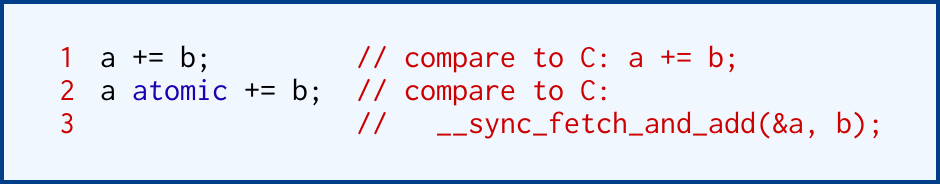
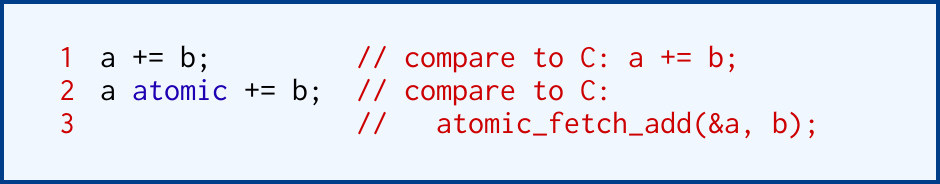
Revise related work section to fit structurally with the narrative from the intro.

Changed region(s): [[0.7096, 0.5978, 0.9564, 0.7609], [0.4628, 0.625, 0.5553, 0.7609], [0.6787, 0.6522, 0.7096, 0.7065]]

diff --git a/implementation.tex b/implementation.tex
@@ -1,10 +1,10 @@
-For a thorough examination of the language, DEF has a language wiki,\cite{DEFWiki} however, a brief look is given below.  The DEF compiler is based on the Tapir branch of LLVM, that provides fork-join parallelism primitives.\cite{TAPIR,LLVM}  The front-end is principly written in OCaml, but includes some C++.
+For a thorough examination of the language, DEF has a language wiki,\cite{DEFWiki} however, a brief comparison with C is provided to show that it is, in fact, close to the machine in the same way that C is, albeit with a different syntax.  The DEF compiler is based on the Tapir branch of LLVM, that adds fork-join parallelism primitives.\cite{TAPIR,LLVM}  The front-end is principly written in OCaml, but includes some C++.
 
-Likewise, the \texttt{defghi} utility is written in OCaml,\cite{DEF} and is described in the C Interface section.
+Likewise, the \texttt{defghi} utility is written in OCaml,\cite{DEF} and is described in the Compatibility section.
 
-Finally, the suite of microbenchmarks was developed in DEF and C with the driver in DEF.  The concurrent data structures selected for the suite were chosen for high performance and variety.
+Finally, the suite of microbenchmarks was developed in DEF and C with the driver in DEF.  The concurrent set data structures selected for the suite were chosen for high performance and variety.
 
-\subsection{Basic Syntax}
+\subsection{Close to the Machine}
 
 \begin{figure}[htbp!]
         \centering
@@ -13,7 +13,9 @@ Finally, the suite of microbenchmarks was developed in DEF and C with the driver
         \label{fig:types}
 \end{figure}
 
-Syntactically, DEF looks similar to C with the most apparent difference being that scopes are denoted by keywords instead of curly braces (e.g., \texttt{if} and \texttt{fi}, \texttt{do} and \texttt{od}, etc.) allowing curly braces to be repurposed for tuples.  Native types specify a bit width, so C's \texttt{int} on most systems corresponds to DEF's \texttt{i32}.  Types are also designed to read left-to-right, so the return type in a function declaration has been moved to the right using an arrow notation similar to ML-like languages or Go.  For more complicated types, fig.~\ref{fig:types} gives an example of left-to-rightness where no parentheses are needed to distinguish an array of pointers to integers (line 1) from a pointer to an array of 32-bit integers (line 2).
+Syntactically, DEF has some similarity to C with the most apparent difference being that scopes are denoted by keywords instead of curly braces (e.g., \texttt{if}/\texttt{then} and \texttt{fi}, \texttt{do} and \texttt{od}, etc.) allowing curly braces to be repurposed for tuples.  Native types specify a bit width, so C's \texttt{int} on most systems corresponds to DEF's \texttt{i32}.  Types are also designed to read left-to-right, so the return type in a function declaration has been moved to the right using an arrow notation similar to ML-like languages or Go.  For more complicated types, fig.~\ref{fig:types} gives an example of left-to-rightness where no parentheses are needed to distinguish an array of pointers to integers (line 1) from a pointer to an array of integers (line 2).
+
+The expressibility is equivalent to C.  Arrays, for example, contain no metadata and can appear on the stack or on the heap.  DEF is able to commit to native integers and floating point variables of specific width, however, because architectures have largely settled on them.  C acknowledges this as of the C99 standard with types like \texttt{int32\_t} defined in the \texttt{stdint.h} header file.(cite C99)
 
 \begin{figure}[htbp!]
         \centering
@@ -22,7 +24,7 @@ Syntactically, DEF looks similar to C with the most apparent difference being th
         \label{fig:typedef}
 \end{figure}
 
-Types are defined with the \texttt{typedef} keyword.  Figure \ref{fig:typedef} shows two examples: a C-style \texttt{string} type is defined on line 1, and a complex number struct is defined on lines 2-5.  The struct's actual definition is identical to tuple syntax, though tuples typically omit the member names.  Worthy of note is that tuples in DEF really are just anonymous structs, in keeping with the design goal of interchangeability with C.  Whereas in many languages tuples are allocated on the heap and garbage collected, in DEF they're allocated however a named struct would be in C.  Locating a struct or tuple on the heap requires explicit allocation.  Fig.~\ref{fig:window-find} provides a \texttt{window\_{}find} function declaration from the Harris lock-free linked list\cite{Harris} in Herlihy and Shavit,\cite{HSBook} as expressed in C (lines 2-6) and DEF (lines 9-10).  In both cases, the struct is returned by value on the stack.  A pointer, in both cases, would require explicit pointer syntax.
+Types are defined with the \texttt{typedef} keyword.  Figure \ref{fig:typedef} shows two examples: a C-style \texttt{string} type is defined on line 1, and a complex number struct is defined on lines 2-5.  The struct's actual definition is identical to tuple syntax, though tuples typically omit the member names.  Worthy of note is that tuples in DEF really are just anonymous structs, in keeping with the design goal of interchangeability with C.  Whereas in many languages tuples are allocated on the heap and garbage collected, in DEF they're allocated however a named struct would be in C.  Locating a struct or tuple on the heap requires explicit allocation.  Fig.~\ref{fig:window-find} provides a \texttt{window\_{}find} function declaration from the Harris lock-free linked list\cite{Harris} in Herlihy and Shavit,\cite{HSBook} as expressed in C (lines 2-6) and DEF (lines 9-10).  In both cases, the struct is returned by value on the stack.  A pointer, in both languages, would require explicit pointer syntax.
 
 \begin{figure}[htbp!]
         \centering
@@ -33,30 +35,32 @@ Types are defined with the \texttt{typedef} keyword.  Figure \ref{fig:typedef} s
 
 Binary Read-Modify-Write (RMW) operations with sequential consistency can be expressed by applying an \texttt{atomic} modifier to the target operation.  Fig.~\ref{fig:atomic} shows an example of \texttt{atomic} being used to add into the variable \texttt{a}.
 
-%% FIXME: Graphic should show new C atomics, not __sync_* functions.
-
 \begin{figure}[htbp!]
         \centering
         \includegraphics[scale=0.25]{gfx/atomic}
-        \caption{Example of modifying a non-RMW operation to make it RMW in DEF.  The C version is GCC-specific.}
+        \caption{Example of modifying a non-RMW operation to make it RMW in DEF.  The C atomic is available since C11.}
         \label{fig:atomic}
 \end{figure}
 
-\subsection{Allocation, Deallocation, and Reclamation}
+Despite the difference in syntax, DEF exhibits the same kind of expressibility as C in data layout and instruction generation.  There aren't unexpected hidden costs in operations or types, allowing a programmer to tune DEF code for performance in the same way as one would do for C.
 
-DEF has no native allocator as distinct from C.  Allocating memory with \texttt{new} and deallocating it with \texttt{delete}, use \texttt{malloc} and \texttt{free}, respectively.  Since DEF's memory reclamation system is implemented using Forkscan, they implicitly use Forkscan's \texttt{malloc} and \texttt{free} wrappers, but the overhead of this indirection is undetectable in trials.  Independent of implementation, memory allocated with \texttt{new} is untracked.  Memory can be passed freely between DEF and C, and a pointer acquired in C through \texttt{malloc} can be deleted in DEF, and one acquired in DEF through \texttt{new} can be freed in C.
+\subsection{Modularity}
+
+As above, modularity is decided by the profile presented to users of a library.  In a concurrent data structure, what does a programmer need to know about pointers returned from thus-and-such a function call?  What are the restrictions?
+
+DEF has no native allocator.  Allocating memory with \texttt{new} and deallocating it with \texttt{delete}, use \texttt{malloc} and \texttt{free}, respectively.  Since DEF's memory reclamation system is implemented using Forkscan, they implicitly use Forkscan's \texttt{malloc} and \texttt{free} wrappers, but the overhead of this indirection is undetectable in trials.  Independent of implementation, memory allocated with \texttt{new} is untracked.  Memory can be passed freely between DEF and C, and a pointer acquired in C through \texttt{malloc} can be deleted in DEF, and one acquired in DEF through \texttt{new} can be freed in C.
 
 Moreover, \texttt{new} and \texttt{delete}, as applied to non-shared memory, are conveniences-only.  Mixing allocators or interfacing with a language with hooks to an external garbage collector is as trivial (or as complex) in DEF as it is in C because all memory is treated in exactly the same way.
 
-The exception to this is in the use of \texttt{retire} to flag a pointer for tracking.  It's assumed that a retired node was allocated with the same allocator used by \texttt{new}.  Implementation-wise, Forkscan requires knowledge of the \texttt{free} and \texttt{malloc\_{}usable\_{}size} corresponding to the \texttt{malloc} that was used to acquire the memory.  More broadly, it's hard to see how any implementation could call the correct \texttt{free} on a retired node unless it corresponded to the known \texttt{malloc}, and this isn't especially burdensome to programmers.
+The exception to this is in the use of \texttt{retire} to flag a pointer for tracking.  \texttt{retire} cannot be applied arbitrarily to pointers since there is no way to determine origin.  DEF assumes that a retired node was allocated with the same allocator used by \texttt{new}.  Implementation-wise, Forkscan requires knowledge of the \texttt{free} and \texttt{malloc\_{}usable\_{}size} corresponding to the \texttt{malloc} that was used to acquire the memory.  More broadly, it's hard to see how any implementation could call the correct \texttt{free} on a retired node unless it corresponded to the known \texttt{malloc} for the same reason.  This is not especially burdensome to programmers since mixing allocators is typically frowned upon.
 
 A final restriction on \texttt{retire} is that it may only be called on a pointer, once.  If multiple threads retire the same memory, the behavior is undefined.  In practice, it acts like a double-free because the reclamation system may perform a double-free.  A good usage model is the thread that successfully removes a node from the concurrent data structure is the one that should retire it.  This makes its use intuitive because code looks like the familiar serial model where \texttt{retire} is replaced by \texttt{delete}.
 
-Forkscan was modified to accommodate these semantics.  When Forkscan completes a memory sweep, it creates a pool of pointers known to have no outstanding references in the user program.  As designed, every call to \texttt{forkscan\_{}malloc} first frees a few of these pointers.  But this creates a dependency on \texttt{forkscan\_{}malloc}.  If a C module naively, repeatedly calls \texttt{malloc}, even from the correct allocator, and gives the memory to a DEF module that retires it, unless the DEF module is also independently allocating its own memory with \texttt{new}, none of the retired memory will ever be reused.  This is a practical leak.  The modification moved the burden from \texttt{forkscan\_{}malloc} to \texttt{forkscan\_retire}, eliminating the dependency.
+Forkscan was modified to accommodate these semantics.  When Forkscan completes a memory sweep, it creates a pool of pointers known to have no outstanding references in the user program.  As designed, every call to \texttt{forkscan\_{}malloc} first frees a few of these pointers.  But this creates a dependency on \texttt{forkscan\_{}malloc}.  If a C module naively, repeatedly calls \texttt{malloc} (as opposed to \texttt{forkscan\_{}malloc}), even from the correct allocator, and gives the memory to a DEF module that retires it, unless the DEF module is also independently allocating its own memory with \texttt{new}, none of the retired memory will ever be reused.  This is a practical leak.  The modification moved the burden from \texttt{forkscan\_{}malloc} to \texttt{forkscan\_retire}, eliminating the dependency.
 
-This produced no discernable difference in performance.  The reasoning for the original design was that freeing memory and then immediately allocating would likely return a pointer to memory that was already in the cache.  High performance allocators tend to have this property.  Changing the location of the burden didn't affect performance because, even if \texttt{malloc} wasn't called immediately after \texttt{free}, the delay between retiring and allocating memory wasn't very great, and the allocated memory was probably still in the cache.  Since some of the concurrent data structures tested were among the most high-performance known, we reason that the change has little or no effect on performance.
+This produced no discernable difference in performance.  The reasoning for the original design was that freeing memory and then immediately allocating would likely return a pointer to memory that was already in the cache.  High performance allocators tend to have this property.  Changing the location of the burden didn't affect performance because, even if \texttt{malloc} wasn't called immediately after \texttt{free}, the delay between retiring and allocating memory wasn't very great, and the allocated memory was probably still in the cache.  Since some of the concurrent data structures tested were among the most high-performance known, we reason that the change has little or no effect on performance.  Even in a producer/consumer application, where \texttt{malloc} is being called with high frequency such that whether memory in cache has a measurable impact on performance, the likelihood is that the producer is getting memory from the cache in a high performance allocator, anyway.
 
-\subsection{C Interface}
+\subsection{Compatibility}
 
 C++ is the gold-standard for interfacing with C.  As mentioned above, C header files can be included directly into C++ files, and C++ functions can be declared with C linkage.  Features like templates, classes, and member functions of structs, can't be exported to C, but anything C-like can be.  Given DEF's syntactic differences, even for features it holds in common with C, sharing DEF interface (\texttt{.defi}) files directly with C is impractical.  However, most of the function-level features have a one-to-one correspondence with C.  Therefore, the compiler is accompanied by a utility, \texttt{defghi}, for generating headers and interface files from DEF source files.
 
